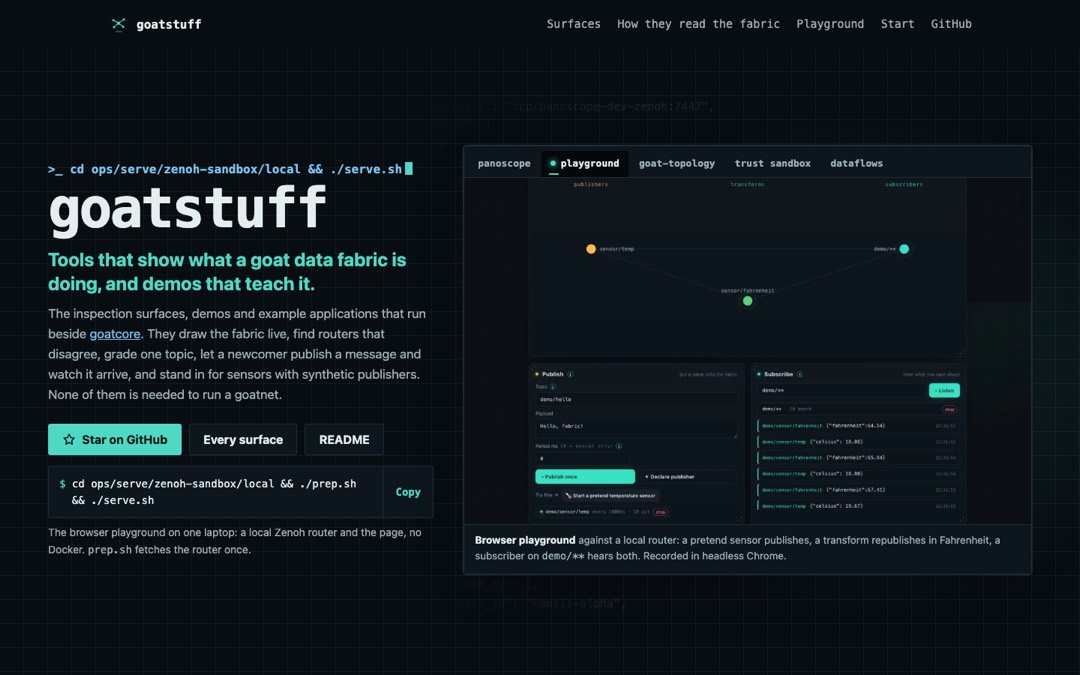
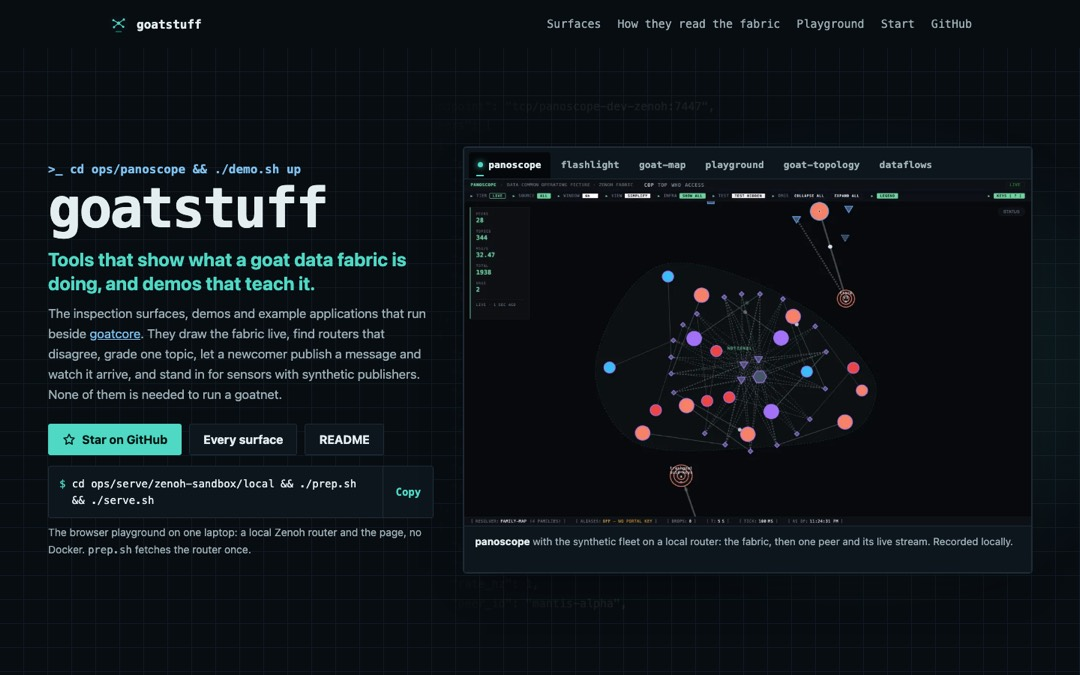
docs(goat): panoscope in the catalogue beside goatstuff (#72)
panoscope page added to examples.md and the catalogue; goatstuff capture
refreshed.

diff --git a/docs/goat/pages/index.html b/docs/goat/pages/index.html
@@ -215,6 +215,7 @@ open-entity-gateway   https://usareur-af.github.io/open-entity-gateway/
 goat-transformers     https://usareur-af.github.io/goat-transformers/
 goat-processors       https://usareur-af.github.io/goat-processors/
 goatstuff             https://usareur-af.github.io/goatstuff/
+panoscope             https://usareur-af.github.io/goatdocs/goat/panoscope/
 fieldkit-feeds        https://usareur-af.github.io/goatdocs/goat/fieldkit-feeds/
 goatrodeo             https://usareur-af.github.io/goatrodeo/
 goat-cloud            https://usareur-af.github.io/goat-cloud/
@@ -235,7 +236,7 @@ hello-galaxy          https://usareur-af.github.io/goatdocs/hello-galaxy/</pre>
     </div>
 
     <div class="stage" role="img" aria-label="The first screen of each goat landing page, shown one after another.">
-      <div class="stage-head"><span><b id="show-name">goat</b></span><span id="show-n">1 / 18</span></div>
+      <div class="stage-head"><span><b id="show-name">goat</b></span><span id="show-n">1 / 19</span></div>
       <a class="show" id="show" href="https://usareur-af.github.io/goatdocs/goat/"><picture id="show-pic"><source media="(prefers-color-scheme: dark)" srcset="shots/goat-dark.jpg"><img src="shots/goat-light.jpg" width="1080" height="675" alt=""></picture></a>
       <div class="stage-foot">First screens, captured from the live pages at 1440 px.</div>
     </div>
@@ -247,7 +248,7 @@ hello-galaxy          https://usareur-af.github.io/goatdocs/hello-galaxy/</pre>
   <div class="wrap">
     <h2>The pages</h2>
     <p class="sub">Each entry is the page's first screen and its own words, copied from the live page. The pages are grouped by what each one is for, in the order a deployment meets them.</p>
-    <nav class="groups" aria-label="Groups"><a href="#g-system">The system <span>3</span></a><a href="#g-join">Join a goat network <span>3</span></a><a href="#g-bring-in">Bring data in, connect other systems <span>5</span></a><a href="#g-work">Work on the data <span>2</span></a><a href="#g-use">Use the data <span>3</span></a><a href="#g-run">Run the estate <span>1</span></a><a href="#g-learn">Learn by running it <span>1</span></a></nav>
+    <nav class="groups" aria-label="Groups"><a href="#g-system">The system <span>3</span></a><a href="#g-join">Join a goat network <span>3</span></a><a href="#g-bring-in">Bring data in, connect other systems <span>5</span></a><a href="#g-work">Work on the data <span>2</span></a><a href="#g-use">Use the data <span>4</span></a><a href="#g-run">Run the estate <span>1</span></a><a href="#g-learn">Learn by running it <span>1</span></a></nav>
     <div class="group" id="g-system"><h3 class="gh">The system</h3><p class="gs">goat as a whole, and the two tools that build and operate it.</p></div>
     <article class="plate" id="goat" data-kind="subpage">
       <a class="print" href="https://usareur-af.github.io/goatdocs/goat/"><picture><source media="(prefers-color-scheme: dark)" srcset="shots/goat-dark.jpg"><img src="shots/goat-light.jpg" width="1080" height="675" loading="lazy" alt="The first screen of the goat landing page."></picture></a>
@@ -403,8 +404,19 @@ hello-galaxy          https://usareur-af.github.io/goatdocs/hello-galaxy/</pre>
         <h3><a href="https://usareur-af.github.io/goatstuff/">goatstuff</a></h3>
         <p class="tg">Tools that show what a goat data fabric is doing, and demos that teach it.</p>
         <p class="ld">The inspection surfaces, demos and example applications that run beside goatcore. They draw the fabric live, find routers that disagree, grade one topic, let a newcomer publish a message and watch it arrive, and stand in for sensors with synthetic publishers. None of them is needed to run a goatnet.</p>
-        <p class="fs"><b>First screen:</b> real captures of the surfaces, one after another: panoscope, the playground, goat-topology, the trust sandbox, dataflows</p>
+        <p class="fs"><b>First screen:</b> real recordings of the surfaces, one after another: panoscope, flashlight, goat-map, the playground, goat-topology, dataflows</p>
         <p class="go"><a href="https://usareur-af.github.io/goatstuff/">Open the page</a><a href="https://github.com/USAREUR-AF/goatstuff">Repository</a></p>
+      </div>
+    </article>
+    <article class="plate" id="panoscope" data-kind="subpage">
+      <a class="print" href="https://usareur-af.github.io/goatdocs/goat/panoscope/"><picture><source media="(prefers-color-scheme: dark)" srcset="shots/panoscope-dark.jpg"><img src="shots/panoscope-light.jpg" width="1080" height="675" loading="lazy" alt="The first screen of the panoscope landing page."></picture></a>
+      <div>
+        <span class="no">usareur-af.github.io/goatdocs/goat/panoscope/</span>
+        <h3><a href="https://usareur-af.github.io/goatdocs/goat/panoscope/">panoscope</a></h3>
+        <p class="tg">The whole goatnet at a glance: who publishes, who subscribes, and what is flowing now.</p>
+        <p class="ld">panoscope draws a goat data fabric as it runs. Every peer is a node, every topic sits between its publishers and its subscribers, and a dot crosses the graph for each sampled message. Select a peer or topic and the side panel streams its messages. panoscope only reads: it subscribes to the fabric and declares no publisher.</p>
+        <p class="fs"><b>First screen:</b> panoscope, the live view of a goat fabric, in goatstuff</p>
+        <p class="go"><a href="https://usareur-af.github.io/goatdocs/goat/panoscope/">Open the page</a><a href="https://github.com/USAREUR-AF/goatdocs">Repository</a></p>
       </div>
     </article>
     <article class="plate" id="fieldkit-feeds" data-kind="subpage">
@@ -472,7 +484,7 @@ hello-galaxy          https://usareur-af.github.io/goatdocs/hello-galaxy/</pre>
   </div>
 </footer>
 <script>
-const PAGES = [{"name": "goat", "url": "https://usareur-af.github.io/goatdocs/goat/", "slug": "goat"}, {"name": "goatbuilder", "url": "https://usareur-af.github.io/goatdocs/goat/goatbuilder/", "slug": "goatbuilder"}, {"name": "goat-cli", "url": "https://usareur-af.github.io/goatdocs/goat/goat-cli/", "slug": "goat-cli"}, {"name": "goat-client", "url": "https://usareur-af.github.io/goat-client/", "slug": "goat-client"}, {"name": "zagros-moon-pod", "url": "https://usareur-af.github.io/zagros-moon-pod/", "slug": "zagros-moon-pod"}, {"name": "saltlick", "url": "https://usareur-af.github.io/saltlick/", "slug": "saltlick"}, {"name": "open-billie", "url": "https://usareur-af.github.io/open-billie/", "slug": "open-billie"}, {"name": "first-bite", "url": "https://usareur-af.github.io/first-bite/", "slug": "first-bite"}, {"name": "goatrope", "url": "https://usareur-af.github.io/goatrope/", "slug": "goatrope"}, {"name": "scapegoat", "url": "https://usareur-af.github.io/scapegoat/", "slug": "scapegoat"}, {"name": "open-entity-gateway", "url": "https://usareur-af.github.io/open-entity-gateway/", "slug": "open-entity-gateway"}, {"name": "goat-transformers", "url": "https://usareur-af.github.io/goat-transformers/", "slug": "goat-transformers"}, {"name": "goat-processors", "url": "https://usareur-af.github.io/goat-processors/", "slug": "goat-processors"}, {"name": "goatstuff", "url": "https://usareur-af.github.io/goatstuff/", "slug": "goatstuff"}, {"name": "fieldkit-feeds", "url": "https://usareur-af.github.io/goatdocs/goat/fieldkit-feeds/", "slug": "fieldkit-feeds"}, {"name": "goatrodeo", "url": "https://usareur-af.github.io/goatrodeo/", "slug": "goatrodeo"}, {"name": "goat-cloud", "url": "https://usareur-af.github.io/goat-cloud/", "slug": "goat-cloud"}, {"name": "hello-galaxy", "url": "https://usareur-af.github.io/goatdocs/hello-galaxy/", "slug": "hello-galaxy"}];
+const PAGES = [{"name": "goat", "url": "https://usareur-af.github.io/goatdocs/goat/", "slug": "goat"}, {"name": "goatbuilder", "url": "https://usareur-af.github.io/goatdocs/goat/goatbuilder/", "slug": "goatbuilder"}, {"name": "goat-cli", "url": "https://usareur-af.github.io/goatdocs/goat/goat-cli/", "slug": "goat-cli"}, {"name": "goat-client", "url": "https://usareur-af.github.io/goat-client/", "slug": "goat-client"}, {"name": "zagros-moon-pod", "url": "https://usareur-af.github.io/zagros-moon-pod/", "slug": "zagros-moon-pod"}, {"name": "saltlick", "url": "https://usareur-af.github.io/saltlick/", "slug": "saltlick"}, {"name": "open-billie", "url": "https://usareur-af.github.io/open-billie/", "slug": "open-billie"}, {"name": "first-bite", "url": "https://usareur-af.github.io/first-bite/", "slug": "first-bite"}, {"name": "goatrope", "url": "https://usareur-af.github.io/goatrope/", "slug": "goatrope"}, {"name": "scapegoat", "url": "https://usareur-af.github.io/scapegoat/", "slug": "scapegoat"}, {"name": "open-entity-gateway", "url": "https://usareur-af.github.io/open-entity-gateway/", "slug": "open-entity-gateway"}, {"name": "goat-transformers", "url": "https://usareur-af.github.io/goat-transformers/", "slug": "goat-transformers"}, {"name": "goat-processors", "url": "https://usareur-af.github.io/goat-processors/", "slug": "goat-processors"}, {"name": "goatstuff", "url": "https://usareur-af.github.io/goatstuff/", "slug": "goatstuff"}, {"name": "panoscope", "url": "https://usareur-af.github.io/goatdocs/goat/panoscope/", "slug": "panoscope"}, {"name": "fieldkit-feeds", "url": "https://usareur-af.github.io/goatdocs/goat/fieldkit-feeds/", "slug": "fieldkit-feeds"}, {"name": "goatrodeo", "url": "https://usareur-af.github.io/goatrodeo/", "slug": "goatrodeo"}, {"name": "goat-cloud", "url": "https://usareur-af.github.io/goat-cloud/", "slug": "goat-cloud"}, {"name": "hello-galaxy", "url": "https://usareur-af.github.io/goatdocs/hello-galaxy/", "slug": "hello-galaxy"}];
 // Copy button; the first screen's slideshow of every page's real first screen.
 // Without JavaScript the first page's capture shows; every entry is listed either way.
 (function () {

diff --git a/docs/goat/splash-page/index.html b/docs/goat/splash-page/index.html
@@ -243,10 +243,11 @@ description: Build or revise a project's landing page
       <a class="shot" href="https://usareur-af.github.io/goat-cloud/"><picture><source media="(prefers-color-scheme: dark)" srcset="shots/goat-cloud-dark.jpg"><img src="shots/goat-cloud-light.jpg" width="720" height="450" loading="lazy" alt="The first screen of the goat-cloud landing page."></picture><span class="nm">goat-cloud</span><span class="sh">an ownership register: every cloud resource has an owner</span></a>
       <a class="shot" href="https://usareur-af.github.io/goatrope/"><picture><source media="(prefers-color-scheme: dark)" srcset="shots/goatrope-dark.jpg"><img src="shots/goatrope-light.jpg" width="720" height="450" loading="lazy" alt="The first screen of the goatrope landing page."></picture><span class="nm">goatrope</span><span class="sh">a rope figure drawn by <code>build.py</code>, state drawn rather than colored</span></a>
       <a class="shot" href="https://usareur-af.github.io/scapegoat/"><picture><source media="(prefers-color-scheme: dark)" srcset="shots/scapegoat-dark.jpg"><img src="shots/scapegoat-light.jpg" width="720" height="450" loading="lazy" alt="The first screen of the scapegoat landing page."></picture><span class="nm">scapegoat</span><span class="sh">a real session against the toy simulator: the link established, lost and established again</span></a>
-      <a class="shot" href="https://usareur-af.github.io/goatstuff/"><picture><source media="(prefers-color-scheme: dark)" srcset="shots/goatstuff-dark.jpg"><img src="shots/goatstuff-light.jpg" width="720" height="450" loading="lazy" alt="The first screen of the goatstuff landing page."></picture><span class="nm">goatstuff</span><span class="sh">real captures of the surfaces, one after another: panoscope, the playground, goat-topology, the trust sandbox, dataflows</span></a>
+      <a class="shot" href="https://usareur-af.github.io/goatstuff/"><picture><source media="(prefers-color-scheme: dark)" srcset="shots/goatstuff-dark.jpg"><img src="shots/goatstuff-light.jpg" width="720" height="450" loading="lazy" alt="The first screen of the goatstuff landing page."></picture><span class="nm">goatstuff</span><span class="sh">real recordings of the surfaces, one after another: panoscope, flashlight, goat-map, the playground, goat-topology, dataflows</span></a>
       <a class="shot" href="https://usareur-af.github.io/goatdocs/goat/"><picture><source media="(prefers-color-scheme: dark)" srcset="shots/goat-dark.jpg"><img src="shots/goat-light.jpg" width="720" height="450" loading="lazy" alt="The first screen of the goat landing page."></picture><span class="nm">goat</span><span class="sh">goat as one system</span></a>
       <a class="shot" href="https://usareur-af.github.io/goatdocs/goat/goatbuilder/"><picture><source media="(prefers-color-scheme: dark)" srcset="shots/goatbuilder-dark.jpg"><img src="shots/goatbuilder-light.jpg" width="720" height="450" loading="lazy" alt="The first screen of the goatbuilder landing page."></picture><span class="nm">goatbuilder</span><span class="sh">goatbuilder, the tool in goatcore that builds, releases and deploys every machine</span></a>
       <a class="shot" href="https://usareur-af.github.io/goatdocs/goat/goat-cli/"><picture><source media="(prefers-color-scheme: dark)" srcset="shots/goat-cli-dark.jpg"><img src="shots/goat-cli-light.jpg" width="720" height="450" loading="lazy" alt="The first screen of the goat-cli landing page."></picture><span class="nm">goat-cli</span><span class="sh">goat, the command-line tool in goatcore that operates a goatnet</span></a>
+      <a class="shot" href="https://usareur-af.github.io/goatdocs/goat/panoscope/"><picture><source media="(prefers-color-scheme: dark)" srcset="shots/panoscope-dark.jpg"><img src="shots/panoscope-light.jpg" width="720" height="450" loading="lazy" alt="The first screen of the panoscope landing page."></picture><span class="nm">panoscope</span><span class="sh">panoscope, the live view of a goat fabric, in goatstuff</span></a>
       <a class="shot" href="https://usareur-af.github.io/goatdocs/goat/fieldkit-feeds/"><picture><source media="(prefers-color-scheme: dark)" srcset="shots/fieldkit-feeds-dark.jpg"><img src="shots/fieldkit-feeds-light.jpg" width="720" height="450" loading="lazy" alt="The first screen of the fieldkit-feeds landing page."></picture><span class="nm">fieldkit-feeds</span><span class="sh">Fieldkit Feeds, a service inside goatstuff</span></a>
       <a class="shot" href="https://usareur-af.github.io/goatdocs/hello-galaxy/"><picture><source media="(prefers-color-scheme: dark)" srcset="shots/hello-galaxy-dark.jpg"><img src="shots/hello-galaxy-light.jpg" width="720" height="450" loading="lazy" alt="The first screen of the hello-galaxy landing page."></picture><span class="nm">hello-galaxy</span><span class="sh">the hello-galaxy worked examples</span></a>
     </div>

diff --git a/.claude/skills/splash-page/examples.md b/.claude/skills/splash-page/examples.md
@@ -20,7 +20,7 @@ catalogue of them, built from this list by goatdocs `docs/goat/pages/`. Read the
 | goat-cloud | https://usareur-af.github.io/goat-cloud/ | an ownership register: every cloud resource has an owner | smallest site: one `index.html` with styles inline, `fitcheck.py`, `README.md`; serif for statements, mono for what a machine reads |
 | goatrope | https://usareur-af.github.io/goatrope/ | a rope figure drawn by `build.py`, state drawn rather than colored | `page.html` → `index.html` with `build.py --check`; SPDX headers |
 | scapegoat | https://usareur-af.github.io/scapegoat/ | a real session against the toy simulator: the link established, lost and established again | `site/record.py` records the session; `build.py` checks the recording and the quoted event log against the tree |
-| goatstuff | https://usareur-af.github.io/goatstuff/ | real captures of the surfaces, one after another: panoscope, the playground, goat-topology, the trust sandbox, dataflows | a gallery card per surface whose status `build.py` checks against `docs/RELEASE-CONTENTS.md` |
+| goatstuff | https://usareur-af.github.io/goatstuff/ | real recordings of the surfaces, one after another: panoscope, flashlight, goat-map, the playground, goat-topology, dataflows | a gallery card per surface whose status `build.py` checks against `docs/RELEASE-CONTENTS.md` |
 
 ## Sub-pages in goatdocs (`docs/goat/<slug>/index.html`)
 
@@ -29,6 +29,7 @@ catalogue of them, built from this list by goatdocs `docs/goat/pages/`. Read the
 | https://usareur-af.github.io/goatdocs/goat/ | goat as one system | the parent every component sub-page links back to |
 | https://usareur-af.github.io/goatdocs/goat/goatbuilder/ | goatbuilder, the tool in goatcore that builds, releases and deploys every machine | a site plan of machine roles, each selectable, built or designed |
 | https://usareur-af.github.io/goatdocs/goat/goat-cli/ | goat, the command-line tool in goatcore that operates a goatnet | real output of the release binary: the sandbox, why a connection is blocked, an error explained |
+| https://usareur-af.github.io/goatdocs/goat/panoscope/ | panoscope, the live view of a goat fabric, in goatstuff | a replay of a real recording against the synthetic fleet: peers, topics and sampled messages moving |
 | https://usareur-af.github.io/goatdocs/goat/fieldkit-feeds/ | Fieldkit Feeds, a service inside goatstuff | captures in light and dark chosen by color scheme; event lines replay a real audit log; numbers each name their command |
 | https://usareur-af.github.io/goatdocs/hello-galaxy/ | the hello-galaxy worked examples | one page for a family of small repositories |
 
